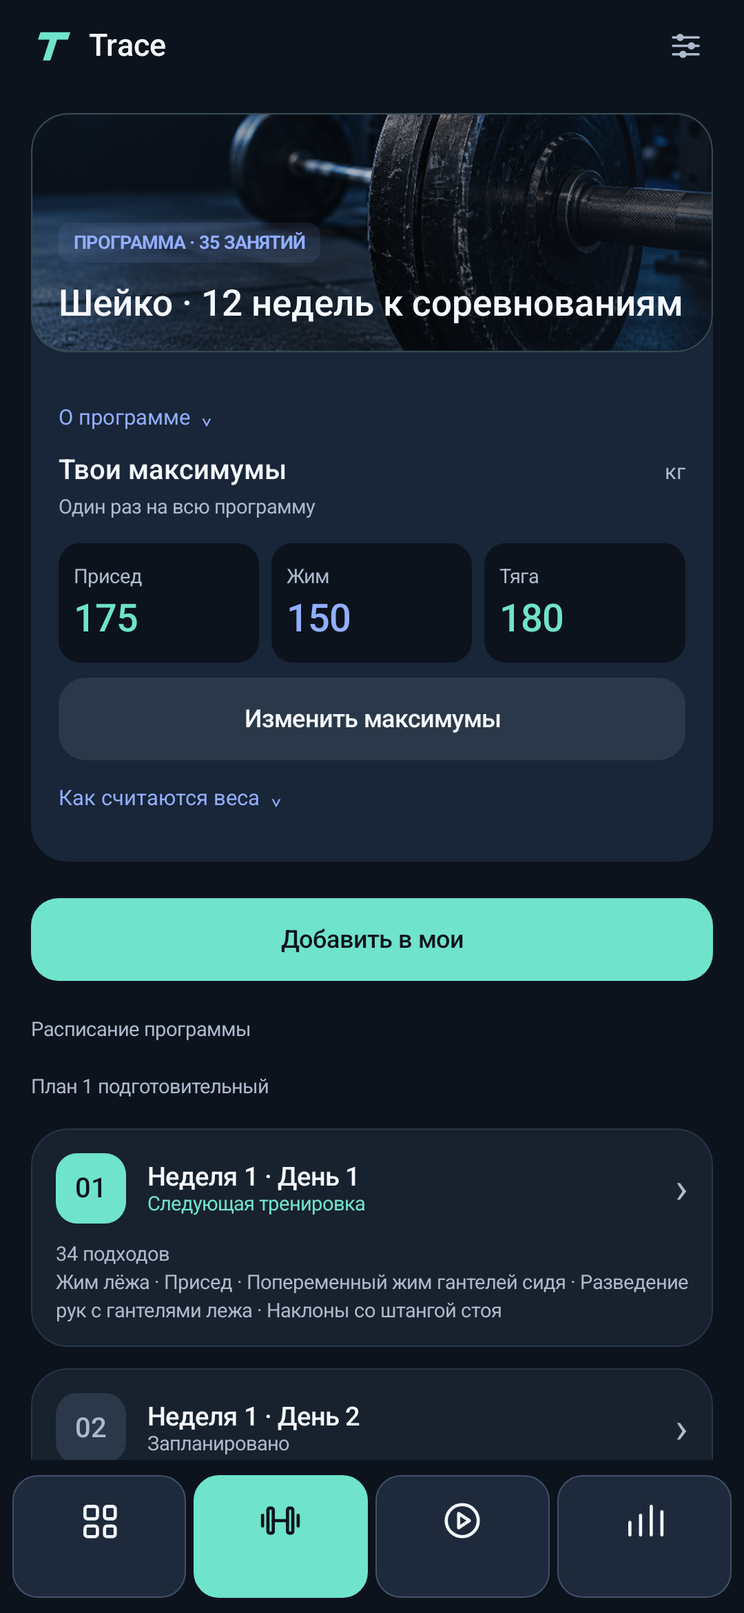
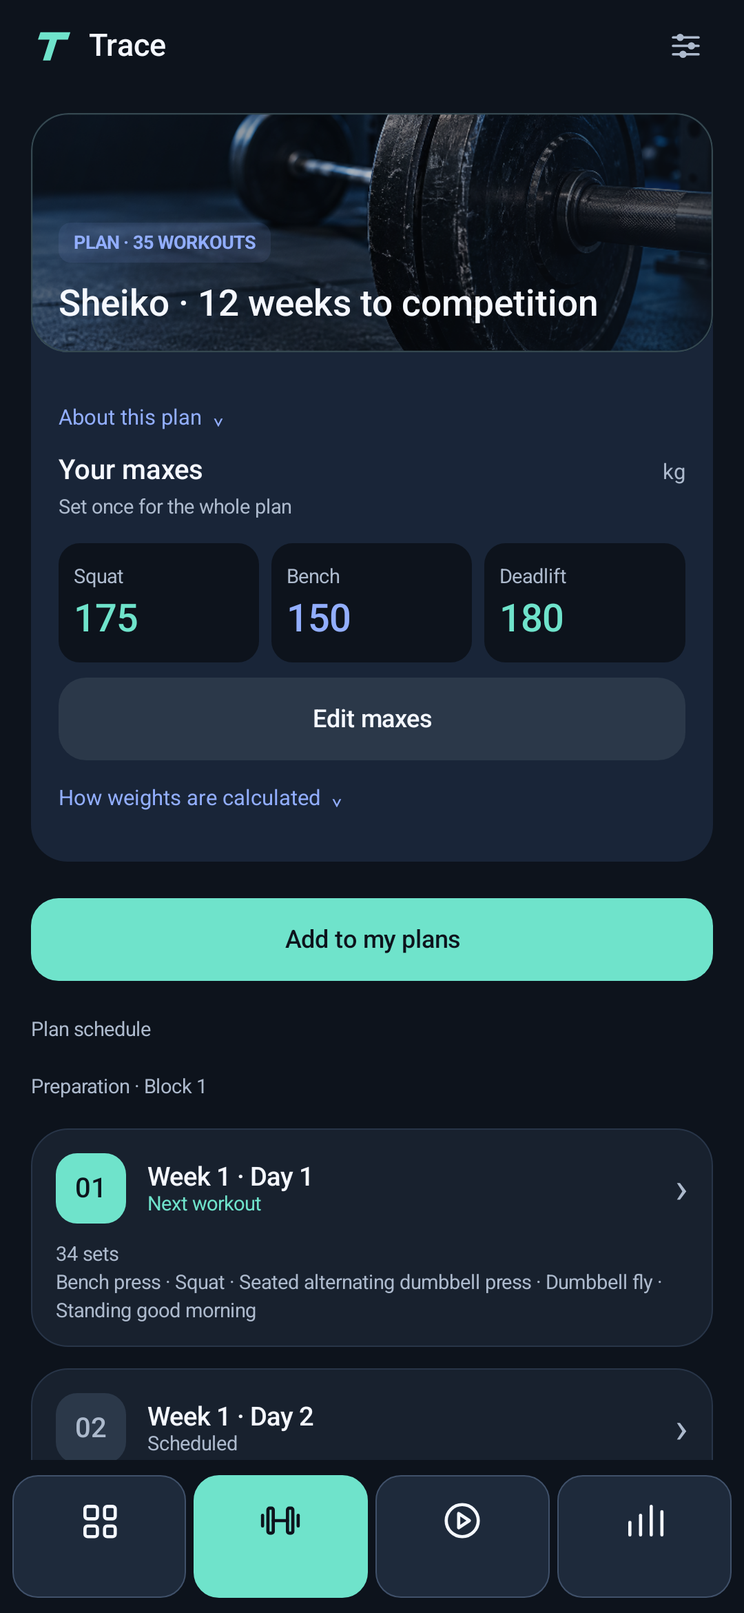
Translate GitHub guides and screenshot to English

diff --git a/docs/DEVELOPMENT.md b/docs/DEVELOPMENT.md
@@ -1,140 +1,106 @@
-# Trace — тренировки на Android
+# Trace development notes
 
-Версия 0.14.0 личного дневника тренировок для Android 8.0 и новее. Работает без аккаунта и интернета. Интерфейс на русском и английском.
+Trace 0.14.0 is an offline Android workout journal. Its application ID is `com.podhod.app`.
 
-## Возможности
+## Build
 
-- Планы, мои программы, текущая тренировка и календарь прогресса.
-- Программы Шейко, включая 12-недельный цикл к соревнованиям, и базовая схема Матвея Злата.
-- Максимумы на всю программу и автоматический расчёт процентных весов.
-- Независимые отметки подходов, отмена и редактирование веса и повторений.
-- Управление тренировкой из системной медиапанели Android.
-- Импорт программ и резервное копирование. Данные тренировок хранятся на телефоне.
+- Java 17 and Android Views
+- Gradle 8.11.1 and Android Gradle Plugin 8.9.2
+- Compile and target SDK 35
+- Minimum SDK 26 (Android 8.0)
 
-## Открыть проект
-
-Открой корневую папку в Android Studio. Для сборки нужны JDK 17 и Android SDK 35. После синхронизации Gradle выбери устройство и нажми Run.
-
-Для сборки из терминала с настроенными `JAVA_HOME` и Android SDK:
+Open the root folder in Android Studio, configure JDK 17 and Android SDK 35, and allow Gradle sync to finish. Select your device and run the app.
 
 ```powershell
 ./gradlew.bat assembleDebug testDebugUnitTest lintDebug
 ```
 
-Готовый APK появится в `app/build/outputs/apk/debug/`. Личные резервные копии, локальные настройки, результаты проверок и ключи подписи исключены из Git.
+The APK is generated at `app/build/outputs/apk/debug/app-debug.apk`. GitHub Releases currently distributes a debug-signed build, not a Google Play release. Keep signing consistent when updating an existing installation.
 
-## Обновление 0.9
-
-Компактный экран тренировки, общая строка отмены и паузы, раскрывающиеся подсказки вместо длинных пояснений, числовые плитки рабочих весов. При сохранении Злата есть быстрый выбор повторений 5–8 и предварительный расчёт веса следующей тренировки; любое другое число вводится вручную.
-
-## Обновление 0.8.1
-
-Переключение между программами сохраняет незавершённые занятия отдельно. Предыдущая тренировка и таймер ставятся на паузу. Кнопка начала / продолжения относится к выбранной программе, уведомление показывает только текущую. Сохранённые занятия входят в резервную копию.
-
-## Обновление 0.8
-
-В библиотеку автоматически добавляется программа «Матвей Злат · турник и брусья». Источник: https://www.youtube.com/watch?v=AeB4znuGuSo, схема по русскому переводу сообщения №68 https://forum.steelfactor.ru/index.php?page=3&showtopic=46569. Это открытая схема 2018 года, не Advanced Beginner. 12 занятий — организация дневника, не авторский срок.
-
-Три занятия в неделю, 3 или 4 подхода по 5–8 повторений. Дополнительный вес задаётся отдельно для подтягиваний и брусьев. Перед сохранением пользователь подтверждает фактические повторы последнего подхода по порядку плана; прибавки 5/2,5/1,25/0,5 кг для 8+/7/6/5 повторений, ниже пяти — без прибавки. Следующие дни пересчитываются, история сохраняет фактические веса. Уведомление открывает приложение для подтверждения результата.
-
-## Обновление 0.6
-
-Фотографический фон зала включён в APK: приглушённый фон экранов, иллюстрированные карточки главной и библиотеки, спокойный фон текущего подхода. Изображение работает офлайн; промпт сохранён в outputs/Background-prompt.md.
-
-## Обновление 0.5
-
-Единое оформление всех экранов: крупные числовые показатели, карточки программ, разделы библиотеки и настроек с иконками, история со сводкой и группировкой по месяцам. Формы и результаты открываются в нижних окнах с закреплённой кнопкой действия.
-
-## Обновление 0.4
-
-- Во вкладке **Тренировка** у каждого подхода есть независимая галочка. В списке можно отметить любой подход или снять любую отметку, не затрагивая остальные.
-- Счётчик показывает число отмеченных подходов. Последовательное выполнение и уведомление переходят к первому неотмеченному, пропуская уже выполненные.
-- Список остаётся доступен и после выполнения всех подходов, до сохранения занятия в историю.
-- Кнопка отмены возвращает последний отмеченный подход по времени отметки, даже если подходы выполнялись не по порядку.
-- Нажатие на вес или «Изменить» открывает редактор; галочка управляет только выполнением. При отсутствии веса сначала нужно указать его (0 — без дополнительного отягощения).
-
-## Обновление 0.3
-
-- Отдельная вкладка **Тренировка** в нижней навигации открывает текущее занятие. Если занятие не начато, здесь можно запустить следующий день последней программы.
-- Под основной кнопкой закреплена **Отменить последний подход**. Она снимает последнюю отметку, останавливает отдых и возвращает подход для выполнения. Можно отменять несколько последних подходов по очереди.
-- Отмена доступна также после последнего подхода, пока занятие ещё не сохранено в историю. До первого выполненного подхода кнопка видна, но неактивна.
-
-## Обновление 0.2
-
-- Новый интерфейс: графитовый фон, контрастные тексты, бирюзовые акценты, иконки навигации и компактные списки упражнений.
-- Кнопка выполнения подхода закреплена внизу экрана, вес и повторения показаны отдельно.
-- В «Моих планах», на главной и в программе расположен блок **Твои максимумы**: присед, жим и тяга.
-- Введи три максимума (100%) один раз. Все процентные веса во всех днях пересчитаются автоматически, как в исходной таблице. Обновятся также оставшиеся подходы начатой тренировки и уведомление.
-- Выполненные подходы и история сохраняют фактические веса. Разовые ручные изменения веса сохраняются; в текущем подходе они помечены отдельно. Упражнения с фиксированным весом не привязываются к максимумам автоматически.
-
-## Уже работает
-
-- Программа Шейко КМС/МС: 4 недели, 16 занятий, 217 блоков, 565 подходов из исходной таблицы.
-- Главная с продолжением текущего занятия или запуском следующего дня.
-- Библиотека и «Мои»: последняя использованная программа сверху, независимый прогресс каждой программы.
-- Пошаговая тренировка, редактирование веса/повторений, отмена последнего подхода, пауза и отдых.
-- Уведомление с действиями «Готово», «К подходу», «Пауза», «Назад», «Завершить». Повторное срабатывание старой кнопки не засчитывает следующий подход.
-- Изменение исходных максимумов для всей программы и оставшихся процентных подходов начатого занятия без изменения истории.
-- История фактических подходов, экспорт и восстановление резервной копии.
-- Создание программ, добавление дней и упражнений.
-- Импорт с предпросмотром: исходный XLS Шейко, JSON программы, CSV и XLSX по шаблону.
-
-## На телефоне
-
-Приложение называется **Trace**. Готовый установочный файл: `outputs/Trace.apk`.
-
-1. В «Мои планы» нажми **Изменить максимумы** под программой. Исходные 180/130/190 кг взяты из таблицы, это не оценка твоих текущих возможностей. Введённые значения применяются сразу ко всей программе.
-2. На главной нажми «Начать следующий день» и разреши уведомления.
-3. Отмечай подходы в приложении или в развёрнутом уведомлении. После отдыха нажми «К подходу», после выполнения — «Готово».
-4. Для упражнения без веса в исходной таблице укажи рабочий вес. Ноль означает выполнение без дополнительного отягощения.
-5. После последнего подхода нажми «Завершить»: только тогда день попадёт в историю и откроется следующий.
-
-Таймер отдыха не издаёт сигнал и не переключает подход автоматически. Настройки видимости на экране блокировки зависят от телефона. После принудительной остановки приложения системой/пользователем открой его, чтобы восстановить панель. Прогресс сохранён.
-
-## Импорт других программ
-
-CSV — UTF-8, разделитель `;` (поддерживается также TSV). XLSX — первый лист, без формул. Заголовки и порядок:
-
-```csv
-день;упражнение;подходы;повторения;вес
-День 1;Присед;3;5;60
-День 1;Жим лёжа;3;5;40
-День 2;Пресс;3;10;0
-```
-
-Одинаковое название дня объединяет строки. Каждая строка — отдельный блок, поэтому повтор одного упражнения позднее в занятии сохранится. Десятичная запятая допустима. Пустой вес означает выбор веса в зале. Шаблон экспортируется из библиотеки.
-
-Произвольная разметка Excel не распознаётся автоматически. XLS Шейко поддерживает формулы умножения максимума и округления из предоставленного файла. XLSX с формулами отклоняется, чтобы не подменять пересчёт устаревшими сохранёнными значениями. JSON сохраняет процентную модель программы.
-
-## Открыть в Android Studio
-
-Нажми **Open** и выбери папку проекта. Для этой машины настроена Java 17 в `.tools/jdk`, SDK находится в стандартной папке Android. Дождись Gradle Sync, выбери подключённый телефон и нажми Run.
-
-Если Android Studio предлагает JDK: Settings → Build, Execution, Deployment → Build Tools → Gradle → Gradle JDK → выбери JDK 17 из `.tools/jdk` (не встроенную Java 25).
-
-На Windows при ошибках Gradle из-за кириллицы открой тот же проект через созданный путь `%TEMP%/podhod-project`. Это ссылка на эту папку, а не отдельная копия.
-
-## Сборка и проверки
+The optional Windows setup scripts download local dependencies into `.tools`:
 
 ```powershell
 powershell -ExecutionPolicy Bypass -File scripts/bootstrap.ps1
 powershell -ExecutionPolicy Bypass -File scripts/build.ps1
 ```
 
-`build.ps1` выполняет сборку APK, unit-тесты и Android Lint. Временные пути без кириллицы обходят проблему Java/Gradle на Windows. Исходный код: Java 17 и Android Views; Gradle 8.11.1, AGP 8.9.2, compile/target SDK 35. APK для личного тестирования подписан debug-ключом; публикация в Google Play не выполнялась.
+The build script uses temporary ASCII-only directory junctions to avoid Java/Gradle issues with non-ASCII project paths. These point to the same project, not a separate checkout.
 
-24 unit-теста проверяют все 178 исходных формул, пересчёт всех 16 дней и текущего занятия, сохранение выполненных и ручных весов, независимость программ, валидацию максимумов, паузу, отдых, отмену, завершение дня и импорт XLS/CSV/XLSX. Проверка на телефоне рендерит реальные экраны и проверяет обновление веса в уведомлении и его сохранение. Исходные данные восстанавливаются после проверки.
+## App structure
 
-## Данные
+The four tabs are Plans, My plans, Workout, and Progress. Program cards combine the schedule, editable maxes or working weights, and session actions. Local photos and vector icons work offline.
 
-### Цикл Шейко из sheyko.xlsx (Trace 0.14.0)
+`Engine` owns data operations, percentage calculations, set completion, and program switching. `Store` persists state synchronously in private SharedPreferences. Completed workouts retain snapshots of their actual sets and weights.
 
-В каталог добавлен отдельный план «Шейко · 12 недель к соревнованиям»: 24 подготовительных и 11 предсоревновательных занятий, всего 1 251 подход. Соревнования №36 показаны как событие после расписания: исходник не задаёт для них попыток. Исходные максимумы 175 / 150 / 180 кг можно заменить своими; процентные веса округляются до 0,5 кг, подсобные веса не выдумываются.
+Each program has independent progress. Switching programs pauses and parks the current session, then starts or restores the selected program. Removing a program from My plans retains its history, working weights, and unfinished session.
 
-Извлечение: `scripts/extract_sheyko_cycle.py`, результат: `app/src/main/assets/sheiko_competition.json`. Все 832 веса сверены с сохранёнными значениями XLSX. В `План соревн. 3!D110` краткая запись тяги на 60% задаёт 3 повторения, подробные ячейки `E112:F112` — 2. Перенесены подробные ячейки, расхождение сохранено в `outputs/sheiko-cycle-audit.json`. Таблица пользователя не изменялась.
+Any set can be marked or unmarked independently. Undo follows completion order rather than array order. Revision tokens reject stale repeated actions. Rest stages and timers have been removed; completing a set moves directly to the next incomplete set.
 
-Добавление в каталог идемпотентно и не меняет существующие программы, историю и занятия. Unit-тесты проверяют весь цикл, округление, пересчёт и сохранность данных. На телефоне проверены оба языка и точное равенство данных до/после обновления за исключением новой записи каталога.
+## Weight calculations
 
-Каждое действие сохраняется синхронно в приватное хранилище приложения. История хранит снимок подходов. Сервера, аналитики и разрешения на интернет нет. Перед удалением приложения сохрани файл через Настройки → Сохранить копию. Восстановление заменяет текущие данные только после подтверждения.
+Sheiko plans use squat, bench press, and deadlift maxes. Changing maxes updates future percentage-based weights and remaining eligible sets in the current session. Completed sets and manual overrides are preserved. Rounding follows each source group.
 
-Источник программы: пользовательский файл `Sheyko_podgotovka_plan_kmc_mc.xls`, Б. И. Шейко. Извлечение сверено с сохранёнными значениями Excel; исходный файл не изменялся.
+The Zlat plan uses added working weights for pull-ups and dips. Progression uses each exercise's final planned set, regardless of the order in which sets were marked complete. The user confirms actual reps before saving. Increases are 5 kg for 8+ reps, 2.5 kg for 7, 1.25 kg for 6, 0.5 kg for 5, and zero for fewer than 5.
+
+The public 2018 Zlat routine is organized into 12 journal sessions for convenience; this is not an author-imposed cycle length or the paid Advanced Beginner program.
+
+Sources: [original video](https://www.youtube.com/watch?v=AeB4znuGuSo) and [forum translation](https://forum.steelfactor.ru/index.php?page=3&showtopic=46569).
+
+## Built-in Sheiko plans
+
+### CMS / MS preparation cycle
+
+The supplied `Sheyko_podgotovka_plan_kmc_mc.xls` was converted into `app/src/main/assets/sheiko.json`: 16 days, 217 groups, 565 sets, and 178 percentage formula groups. Extracted calculations were checked against the workbook's saved values. The original workbook was not modified.
+
+### Twelve-week competition cycle
+
+The supplied `sheyko.xlsx` contains two preparation blocks followed by a competition block: 24 preparation workouts and 11 competition-phase workouts, totaling 1,251 sets. Competition #36 appears as an event after the schedule because the source does not prescribe attempts for it.
+
+Run the extraction script with a local workbook path:
+
+```powershell
+python scripts/extract_sheyko_cycle.py path/to/sheyko.xlsx
+```
+
+The script requires `openpyxl` for reading. It writes `app/src/main/assets/sheiko_competition.json` and a local audit under `outputs/`. All 832 calculated weights were checked against the workbook's cached values. Default maxes are 175 / 150 / 180 kg, with 0.5 kg rounding; users should replace these maxes with their own. Missing accessory weights remain unspecified.
+
+One source discrepancy is retained in the audit: on the competition sheet, cell D110 prescribes three reps at 60% in the summary, while detailed cells E112:F112 specify two. The imported plan follows the detailed cells.
+
+Catalog insertion is idempotent and preserves existing programs, history, and sessions.
+
+## Import formats
+
+JSON preserves the program's percentage model. CSV supports UTF-8 with semicolon or tab delimiters. XLSX uses the first sheet with five columns and no formulas:
+
+```csv
+day;exercise;sets;reps;kg
+Day 1;Squat;3;5;60
+Day 1;Bench press;3;5;40
+Day 2;Abs;3;10;0
+```
+
+Rows sharing a day name are grouped into one day. Each row remains an exercise block, preserving repeated exercises later in the session. Blank weight means a manual choice; zero means no additional load. Decimal commas are supported.
+
+The original supported Sheiko XLS layout can retain its max-multiplication and rounding formulas. Arbitrary Excel layouts are not automatically supported. Formula-bearing XLSX input is rejected rather than relying on potentially stale cached results; the built-in 12-week cycle uses its dedicated extraction script.
+
+## System workout panel
+
+`WorkoutPanelService` provides a MediaSession-backed foreground service for a user-started workout. It does not play audio or request audio focus. Controls include set completion, pause/resume, undo, and opening the workout. Android controls the final panel appearance and lock-screen behavior.
+
+## Language and progress
+
+Display-only localization supports English and Russian. Language settings are stored separately from workout data. Built-in names are translated for display; user-created names and stored identifiers are preserved.
+
+Progress uses saved workouts and local completion dates. Calendar intensity reflects completed set counts. Unfinished sessions are excluded. Weekly streaks allow the current week to remain open when the previous week was active.
+
+## Validation
+
+The 30 unit tests cover source formula preservation, recalculation, completed and manually overridden weights, program switching, max validation, independent completion and undo, imports, progress aggregation, and catalog insertion.
+
+Device instrumentation checks UI rendering, language switching, and system-panel actions. Tests that use temporary data restore original state. The latest competition-cycle verification checked both interface languages and exact data equality before and after installation, apart from the new catalog entry.
+
+## Data and backups
+
+There is no server, analytics, or internet permission in the app. Backups include programs, history, and unfinished workouts. Restoring replaces current data only after confirmation. Save a backup before uninstalling.
+
+Private backups, local SDK configuration, build outputs, dependency caches, and signing keys are excluded from Git.

diff --git a/README.md b/README.md
@@ -1,110 +1,112 @@
 # Trace
 
-**Твой план тренировок — всегда под рукой.**
+**Your training plan, always within reach.**
 
-Trace помогает тренироваться без Excel: показывает следующий подход, рассчитывает веса и сохраняет результаты. Отмечай подходы прямо в приложении или через панель над уведомлениями.
+Train without opening a spreadsheet. Trace shows your next set, calculates your weights, and keeps your workout history. Log sets in the app or use the workout controls in your phone's system panel.
 
-**Android 8.0+ · Русский / English · Без регистрации · Работает офлайн**
+**Android 8.0+ · English / Russian · No account required · Works offline**
 
-## Скачать и установить
+## Download and install
 
-### [Скачать Trace для Android — APK](https://github.com/david-daveee/Trace/releases/latest/download/Trace.apk)
+### [Download Trace for Android — APK](https://github.com/david-daveee/Trace/releases/latest/download/Trace.apk)
 
-[Все версии и список изменений](https://github.com/david-daveee/Trace/releases)
+[All releases and release notes](https://github.com/david-daveee/Trace/releases)
 
-1. Открой эту страницу **на телефоне** и нажми «Скачать Trace для Android».
-2. Открой скачанный файл **Trace.apk** — он будет в загрузках браузера или папке «Загрузки».
-3. Если Android запросит разрешение на установку из этого источника, открой предложенные настройки и разреши установку для браузера или файлового менеджера, из которого открыл APK. Названия пунктов могут отличаться на разных телефонах.
-4. Вернись к файлу и нажми **«Установить»**, затем **«Открыть»**.
-5. При первом запуске тренировки разреши уведомления, чтобы управлять подходами из системной панели.
+1. Open this page **on your Android phone** and tap **Download Trace for Android**.
+2. Open **Trace.apk** from your browser's downloads or your Downloads folder.
+3. If Android asks you to allow installation from this source, open the suggested settings and allow it for the browser or file manager you used to open the APK. The exact wording varies by phone.
+4. Return to the file, tap **Install**, then **Open**.
+5. When you start your first workout, allow notifications to use the system workout controls.
 
-Android Studio и компьютер для установки не нужны. Для iPhone приложение пока недоступно.
+You do not need Android Studio or a computer. An iPhone version is not available yet.
 
-## Первая тренировка за пару минут
+**To switch the app to English:** tap the settings icon at the top and select **English** in the language selector.
 
-1. Открой **«Планы»** и выбери программу. Нажми **«Добавить в мои»**.
-2. Задай свои веса в карточке программы. Для Шейко это **максимумы приседа, жима и тяги**, от которых считаются проценты. Для Злата — **дополнительный рабочий вес** на турнике и брусьях.
-3. Во вкладке **«Мои»** открой нужную программу и начни тренировку.
-4. Выполни подход и отметь его. Следующий подход появится сразу — таймера отдыха нет.
-5. В конце нажми **«Сохранить тренировку»**. Результат попадёт в историю и прогресс, а следующим откроется новый день.
+## Start your first workout
 
-Веса, которые уже стоят в планах Шейко, взяты из таблиц. Перед стартом замени их своими. В подсобных упражнениях без заданного веса приложение предложит указать его вручную.
+1. Open **Plans**, choose a program, and tap **Add to my plans**.
+2. Enter your weights in the program card. Sheiko plans use your **squat, bench press, and deadlift maxes** to calculate percentages. The Zlat plan uses **added working weight** for pull-ups and dips.
+3. Open your program in **My plans** and start a workout.
+4. Complete a set and mark it done. The next set appears immediately; there is no rest timer.
+5. At the end, tap **Save workout**. Your results appear in history and progress, and the next session advances to the next day.
 
-<img src="docs/trace-plan.png" alt="План Шейко в Trace: максимумы на всю программу и расписание занятий" width="320">
+The default maxes in Sheiko plans come from the source spreadsheets. Replace them with your own before starting. For accessory exercises without a prescribed weight, enter your working weight manually.
 
-## Что где находится
+<img src="docs/trace-plan.png" alt="A Sheiko plan in Trace with program maxes and a workout schedule" width="320">
 
-| Вкладка | Что можно сделать |
+## Find your way around
+
+| Tab | What you can do |
 | --- | --- |
-| **Планы** | Выбрать готовую программу, импортировать таблицу или собрать свой план. |
-| **Мои** | Найти свои программы, изменить веса и продолжить занятия. Последняя использованная программа — сверху. |
-| **Тренировка** | Смотреть подходы, менять вес и повторения, отмечать выполненное или снимать любую отметку. |
-| **Прогресс** | Смотреть календарь активности, статистику и историю сохранённых тренировок. |
+| **Plans** | Browse ready-made programs, import a spreadsheet, or create a custom plan. |
+| **My plans** | Find your programs, change weights, and continue training. Your most recently used program appears first. |
+| **Workout** | Review sets, edit weight and reps, and mark or unmark any set. |
+| **Progress** | View your activity calendar, stats, and saved workout history. |
 
-## Удобно во время занятия
+## During your workout
 
-- **Управление из системной панели.** Разверни шторку телефона: там будут текущее упражнение и действия для подходов. Вид панели зависит от версии Android и оболочки телефона.
-- **Ошибся с отметкой?** Во вкладке «Тренировка» можно снять отметку с любого подхода. Кнопка отмены снимает последнюю поставленную отметку.
-- **Изменился максимум?** Введи его один раз в программе. Будущие процентные веса пересчитаются, выполненные подходы сохранят свои значения.
-- **Переключился на другую программу?** Незавершённое занятие останется на паузе; к нему можно вернуться.
-- **Программа больше не нужна в списке?** Нажми «Убрать из моих». История сохранится, а программу можно снова добавить из «Планов».
+- **Keep controls within reach.** Pull down your phone's system panel to see the current exercise and set actions. Its appearance depends on your Android version and phone software.
+- **Fix an accidental tap.** Unmark any set in the Workout tab. Undo removes the most recent completion mark.
+- **Update a max once.** Future percentage-based weights update throughout that program. Completed sets keep their recorded weights.
+- **Switch programs freely.** Your unfinished session stays paused so you can return to it later.
+- **Keep your list tidy.** Use **Remove from my plans** to hide a program from your list. Its history stays, and you can add it again from Plans.
 
-## Готовые программы
+## Included programs
 
-| Программа | Что внутри |
+| Program | What's inside |
 | --- | --- |
-| **Шейко · КМС / МС** | Подготовительный цикл: 4 недели, 16 занятий. |
-| **Шейко · 12 недель к соревнованиям** | 8 недель подготовки и 4 недели соревновательного этапа: 35 тренировок, затем отметка о соревнованиях. |
-| **Матвей Злат · турник и брусья** | Базовая схема 2018 года с дополнительным весом. Прибавка для следующего занятия рассчитывается после подтверждения результата. |
+| **Sheiko · CMS / MS** | A four-week preparation cycle with 16 workouts. |
+| **Sheiko · 12 weeks to competition** | Eight weeks of preparation and a four-week competition phase: 35 workouts followed by a competition event. |
+| **Matvey Zlat · pull-ups and dips** | A basic weighted routine from 2018. Next-session increases are calculated after you confirm your results. |
 
-У Шейко нагрузка меняется по процентам, заданным в плане. У Злата прибавка зависит от результата последнего запланированного подхода каждого упражнения. Это разные способы расчёта.
+Sheiko weights follow the percentages prescribed in each plan. Zlat increases depend on the result of the final planned set of each exercise.
 
-## Можно добавить свою программу?
+## Bring your own plan
 
-Да. Открой **«Планы» → «Из таблицы»** или **«Свой план»**.
+Open **Plans** to import a file or choose **Custom plan**.
 
-Поддерживаются JSON, CSV и XLSX по шаблону, а также исходная XLS-таблица Шейко поддерживаемого формата. Шаблон можно скачать прямо в приложении. Произвольная Excel-таблица с любой разметкой не распознаётся автоматически; новый 12-недельный цикл уже добавлен в каталог отдельно.
+Trace supports JSON, CSV and XLSX using the in-app template, plus the supported original Sheiko XLS format. You can download the template from the app. Arbitrarily formatted Excel workbooks are not automatically recognized; the 12-week Sheiko cycle is already included separately in the catalog.
 
-## Как обновить Trace
+## Update Trace
 
-Скачай свежий **Trace.apk** по ссылке выше и установи **поверх текущей версии**. Удалять приложение перед обновлением не нужно.
+Download the latest **Trace.apk** using the link above and install it **over your current version**. You do not need to uninstall Trace first.
 
-Перед обновлением удобно сохранить копию: **Настройки → «Сохранить копию»**. В неё входят программы, история и незавершённое занятие.
+Before updating, save a backup through **Settings → Save backup**. It includes your programs, history, and unfinished workout.
 
-## Частые вопросы
+## Frequently asked questions
 
-**Где мои данные?**  
-На твоём телефоне. Аккаунта и облачной синхронизации нет. Чтобы перенести данные на другой телефон, сохрани копию и выбери там **Настройки → «Восстановить из файла»**. Восстановление заменит текущие данные после подтверждения.
+**Where is my data stored?**  
+On your phone. There is no account or cloud sync. To move to another phone, save a backup, transfer the file, and choose **Settings → Restore from file** on the new device. Restoring replaces its current data after confirmation.
 
-**Почему день не появился в прогрессе?**  
-Календарь учитывает сохранённые тренировки. После отметки всех подходов нажми **«Сохранить тренировку»**.
+**Why isn't my workout showing in Progress?**  
+The calendar counts saved workouts. After completing all sets, tap **Save workout**.
 
-**Где сменить язык?**  
-Нажми значок настроек вверху и выбери **Русский** или **English**.
+**How do I change the language?**  
+Tap the settings icon at the top and choose English or Russian.
 
-**Не вижу панель тренировки.**  
-Начни занятие и проверь, разрешены ли уведомления для Trace в настройках Android. После принудительной остановки приложения открой его снова. Отображение на заблокированном экране зависит от настроек телефона.
+**Why can't I see the workout panel?**  
+Start a workout and check that notifications are enabled for Trace in Android settings. If the app was force-stopped, open it again. Lock-screen visibility depends on your phone settings.
 
-**Android пишет «Приложение не установлено».**  
-Убедись, что файл скачался полностью и на телефоне есть свободное место. Если уже установлена сборка Trace с другой подписью, обновление может не установиться. Сначала сохрани резервную копию; не удаляй приложение с единственной копией истории.
+**Android says “App not installed.”**  
+Check that the download finished and your phone has enough free space. An existing Trace build signed with a different key may prevent the update from installing. Save a backup first; do not uninstall the only copy of your workout history.
 
-## Нашёл проблему или есть идея?
+## Have an idea or found a problem?
 
-[Написать в Issues](https://github.com/david-daveee/Trace/issues) — укажи модель телефона, версию Android и что произошло. Для ошибки пригодится скриншот без личных данных.
+[Open an issue](https://github.com/david-daveee/Trace/issues) with your phone model, Android version, and what happened. A screenshot without personal information can help explain a bug.
 
 <details>
-<summary>Для разработчиков</summary>
+<summary>For developers</summary>
 
-Java 17, Android Views, Android SDK 35. Минимальная версия Android — 8.0 (API 26).
+Java 17, Android Views, and Android SDK 35. Minimum Android version: 8.0 (API 26).
 
-Открой корневую папку проекта в Android Studio и дождись синхронизации Gradle. Проверки и сборка на Windows:
+Open the project root in Android Studio and wait for Gradle sync. Build and run checks on Windows:
 
 ```powershell
 ./gradlew.bat assembleDebug testDebugUnitTest lintDebug
 ```
 
-APK: `app/build/outputs/apk/debug/app-debug.apk`. Текущая загружаемая сборка подписана debug-ключом и распространяется через GitHub Releases.
+APK output: `app/build/outputs/apk/debug/app-debug.apk`. The downloadable build uses a debug signing key and is distributed through GitHub Releases.
 
-[Подробности реализации и история разработки](docs/DEVELOPMENT.md).
+[Implementation details and development notes](docs/DEVELOPMENT.md).
 
 </details>
